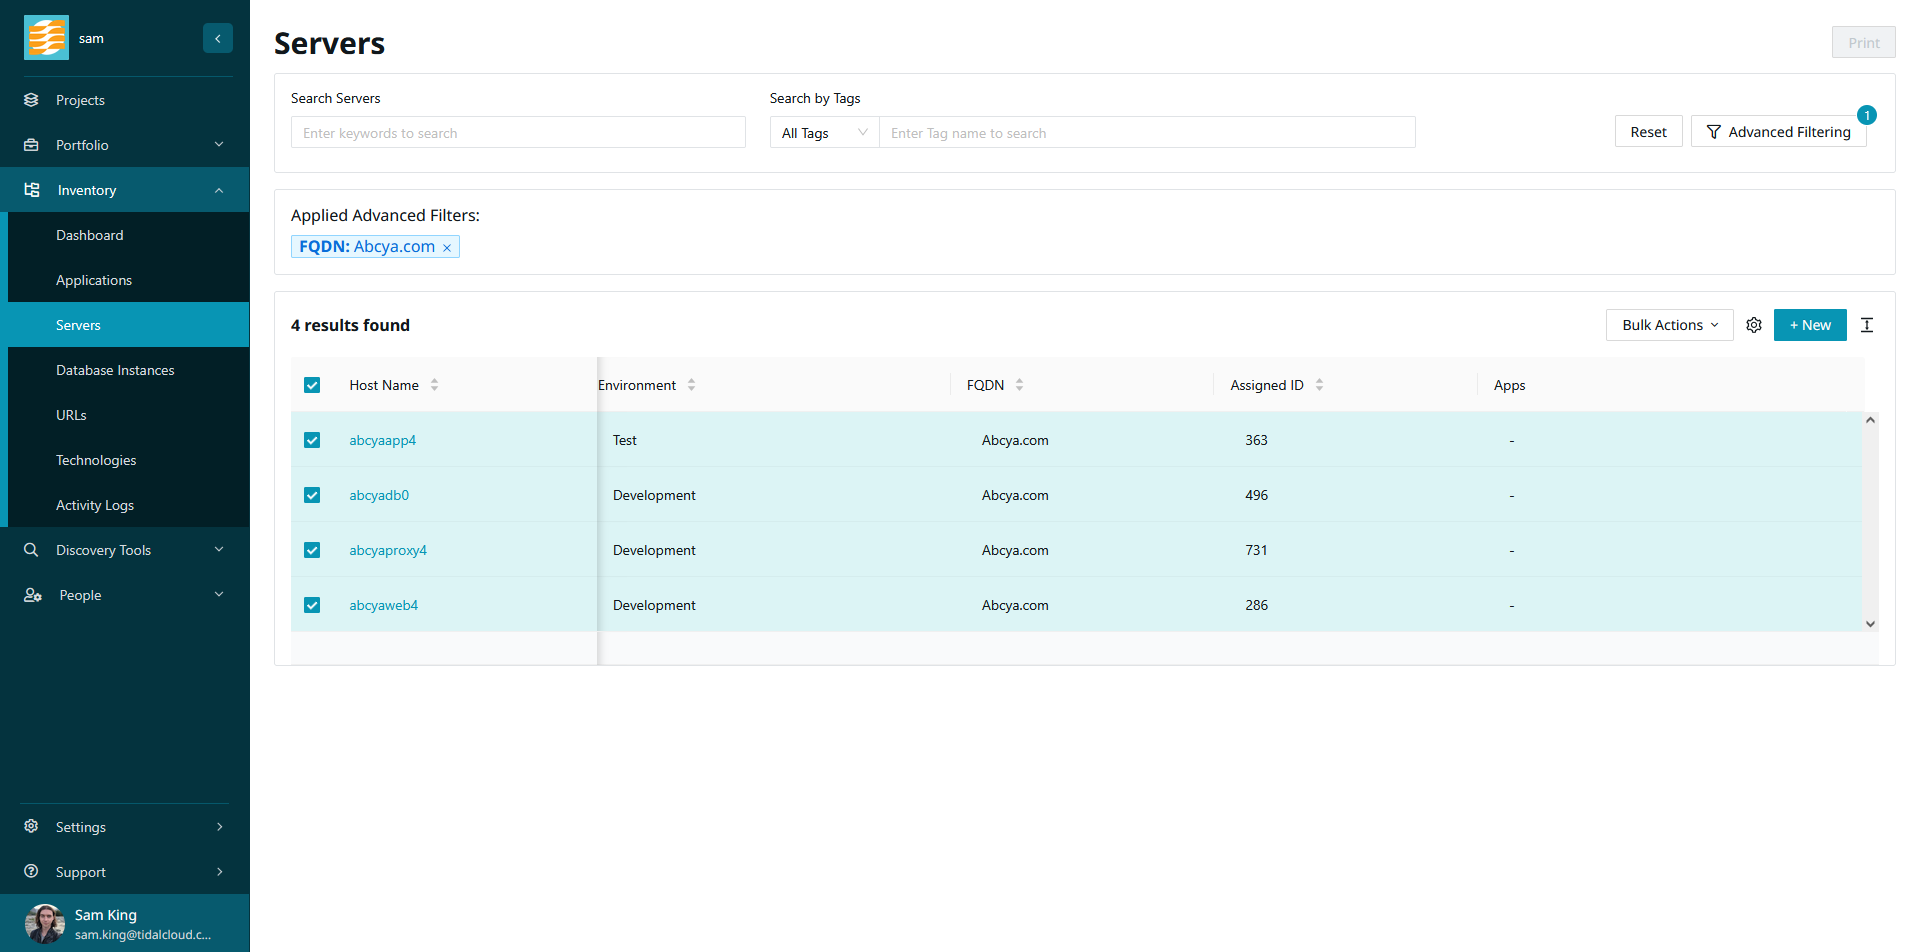
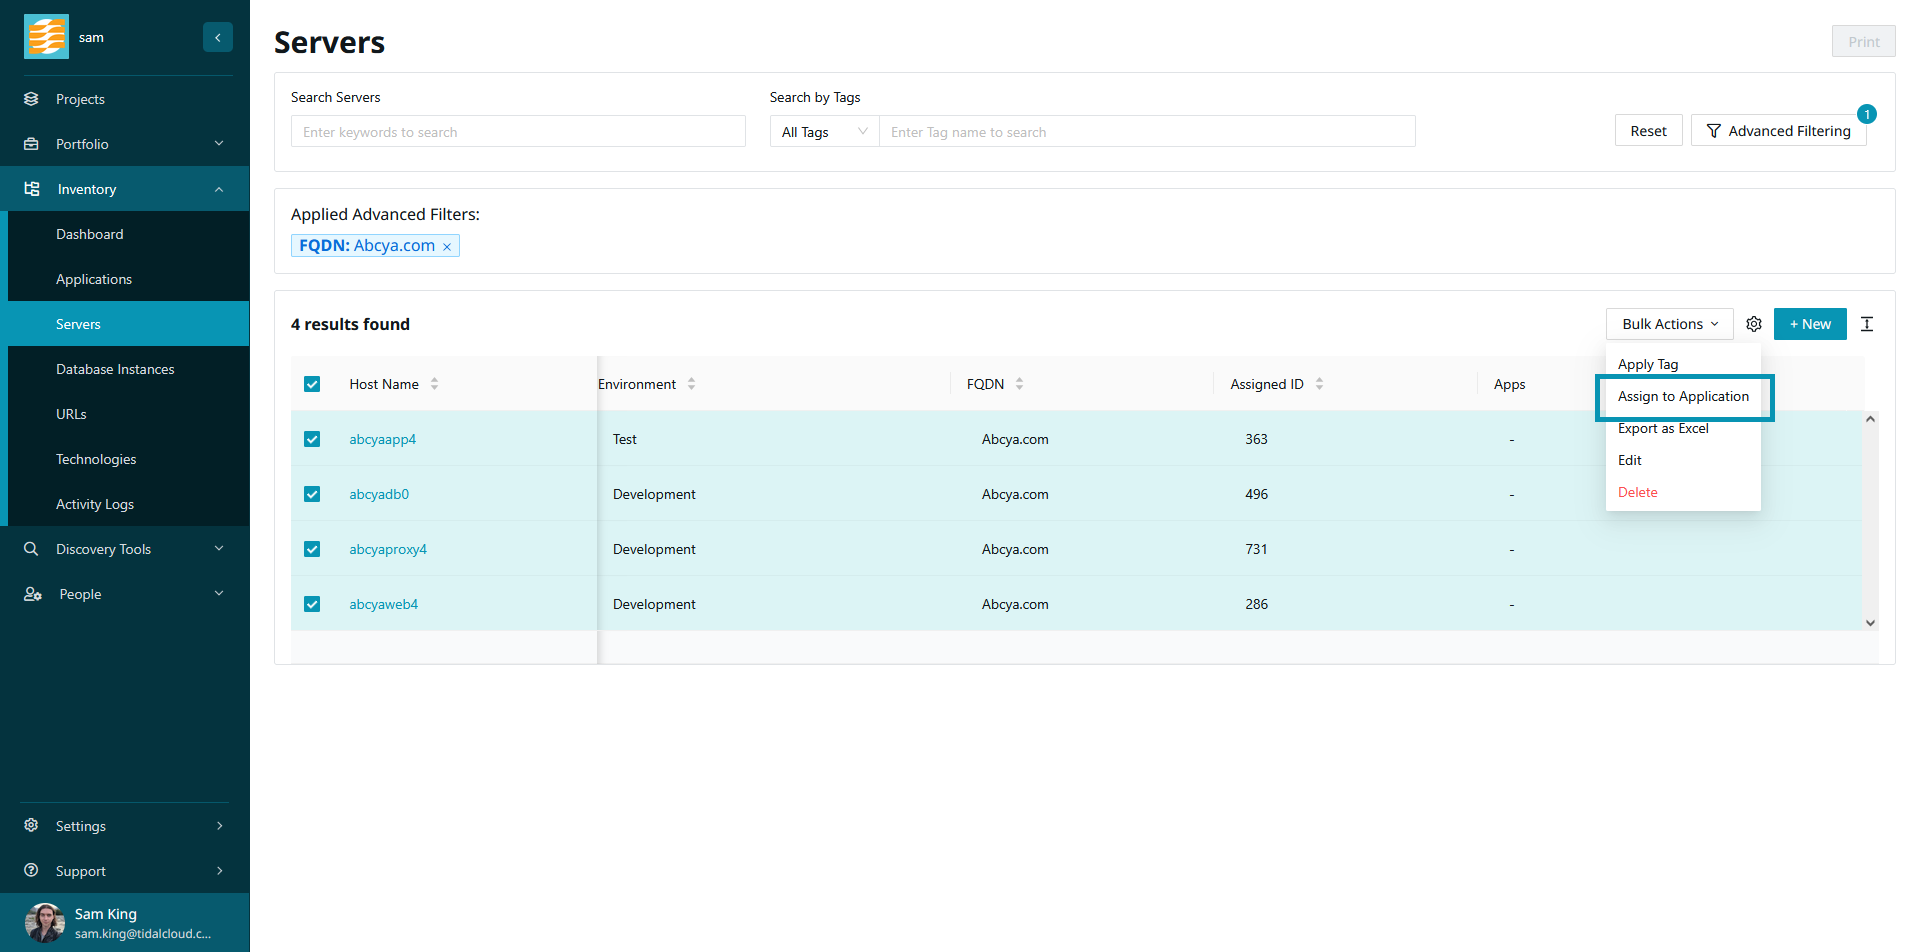
chore: updated bulk edit steps

diff --git a/pages/user guides/bulk_edits.md b/pages/user guides/bulk_edits.md
@@ -13,7 +13,7 @@ Tidal Accelerator streamlines your cloud migration workflow by enabling powerful
 
 ## Bulk Editing Applications, Servers and Database Instances
 
-When working with applications, servers, or database instances, you might need to apply changes to multiple records at once. This process works the same way for all three record types, but for the purposes of this guide, we'll work with Applications.
+When working with applications, servers, or database instances, you might need to apply changes to multiple records at once. This process works the same way for all three record types, but for the purposes of this guide, we'll work with applications.
 
 From the "Applications" view, select the checkboxes for the records you'd like to edit. You can use the search bar to narrow down your selection by name or tag, or use advanced filtering to narrow down your search by record attribute.
 
@@ -43,29 +43,24 @@ Next, click 'Submit', and your changes will be applied to your selected records.
 
 When working with servers, sometimes it's necessary to associate many of your existing servers to an application record. For this example, we're going to associate all servers with the fully qualified domain name (FQDN) 'Abcya.com' with the application named 'ABCya!'.
 
-First, use the advanced filtering drawer to filter your servers by FQDN.
+First, select the servers you'd like to assign.
 
 {% include image.html file="assign-servers-1.png" %}
 <br>
 
-Now, select the servers you'd like to assign.
+Next, under the 'Bulk Actions' menu, click 'Assign to Application'.
 
 {% include image.html file="assign-servers-2.png" %}
 <br>
 
-Next, under the 'Bulk Actions' menu, click 'Assign to Application'.
+Now, select the application that you'd like to assign your selected servers to. For this example we will select 'ABCya!'. Once you've selected the app, click 'Assign'. 
 
 {% include image.html file="assign-servers-3.png" %}
 <br>
 
-Now, select the application that you'd like to assign your selected servers to. For this example we will select 'ABCya!'. Once you've selected the app, click 'Assign'. 
-
-{% include image.html file="assign-servers-4.png" %}
-<br>
-
 The servers will now be assigned to your selected application.
 
-{% include image.html file="assign-servers-5.png" %}
+{% include image.html file="assign-servers-4.png" %}
 <br>
 
 ## Copy Values Across Applications
